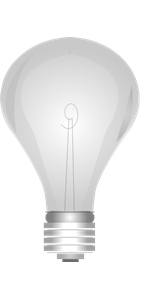
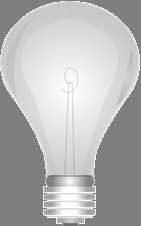
Add files via upload

diff --git a/lista2/index.html b/lista2/index.html
@@ -2,16 +2,17 @@
 <html>
 <head>
 	<meta charset="utf-8">
-	<title>Lista 1</title>
+	<title>Lista 2</title>
 	<link rel="stylesheet" type="text/css" href="style.css">
 	<script src='script.js'></script>
 </head>
-<body>
+<body align="middle">
 	<p id="result">Resultado</p>
 	<img src="Loff.png" id="lampada">
+	<br><br>
 	<button id="liga" onclick="ligar()">Ligar</button>
 	<button id="desliga" onclick="desligar()">Desligar</button>
-	<br>
+	<br><br>
 	<a href="exercicios.html">Lista</a>
 </body>
 </html>

diff --git a/lista2/exercicios.html b/lista2/exercicios.html
@@ -1,4 +1,4 @@
-<!DOCTYPE html>
+<!DOCTYPE html>
 <html>
 <head>
 	<meta charset="utf-8">
@@ -6,11 +6,11 @@
 	<script src="lista1.js"></script>
 	<link rel="stylesheet" type="text/css" href="design.css">
 </head>
-<body>
+<body align="middle">
 	<h1>Exercícios JavaScript</h1>
 	<p id="result">Resultado</p>
 	<a href="index.html">Index</a>
-	<br>
+	<br><br>
 	<button onclick="mudar()">executar</button>
 </body>
 </html>

diff --git a/lista2/script.js b/lista2/script.js
@@ -1,7 +1,9 @@
 function ligar(){
-	document.getElementById('lampada').src = 'Lon.png'
+	document.getElementById('lampada').src = 'Lon.png';
+	document.body.style.backgroundColor = 'white';
 }
 
 function desligar(){
-	document.getElementById('lampada').src = 'Loff.png'
+	document.getElementById('lampada').src = 'Loff.png';
+	document.body.style.backgroundColor = 'gray';
 }

diff --git a/index.html b/index.html
@@ -1,0 +1,12 @@
+<!DOCTYPE html>
+<html>
+<head>
+	<meta charset="utf-8">
+	<title>IOT</title>
+</head>
+<body align="middle">
+	<h1>Internet of Things</h1>
+	<br><br>
+	<a href="lista2/index.html">Lista 2</a>
+</body>
+</html>

diff --git a/lista2/style.css b/lista2/style.css
@@ -1,3 +1,7 @@
+body{
+	background-color: gray;
+}
+
 #lampada{
 	width: 150px;
 	height: 250px;
